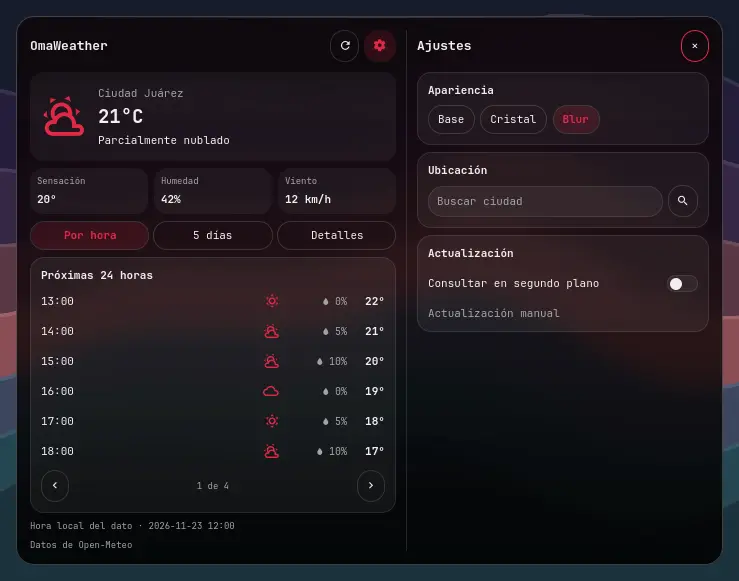
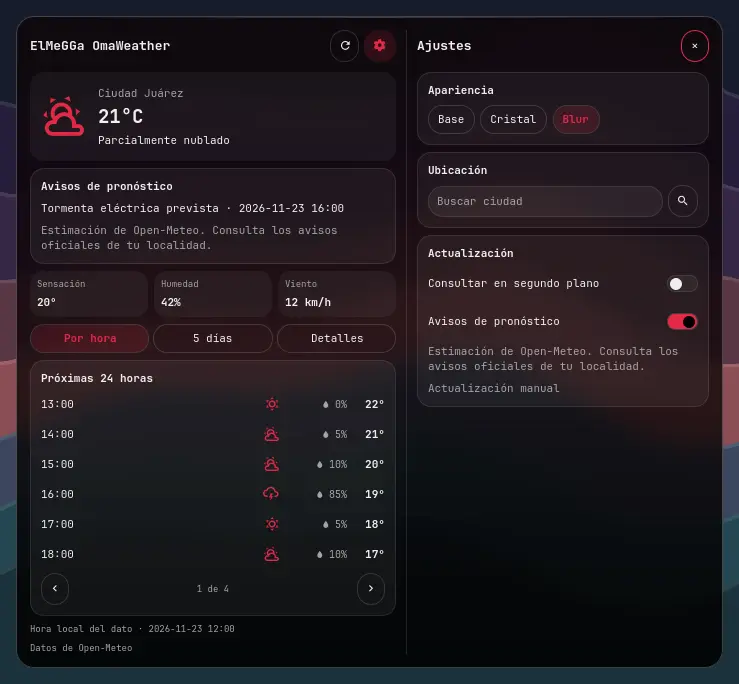
Release ElMeGGa OmaWeather 0.4.0

diff --git a/Weather.qml b/Weather.qml
@@ -18,6 +18,7 @@ Ui.BarWidget {
   readonly property var intervals: [5, 15, 30, 60]
   readonly property int minutes: intervals.includes(setting("minutes", 15)) ? setting("minutes", 15) : 15
   readonly property bool automatic: setting("automatic", true) === true
+  readonly property bool forecastAlerts: setting("forecastAlerts", false) === true
 
   readonly property color ink: Commons.Color.popups.text
   readonly property color background: Commons.Color.popups.background
@@ -35,6 +36,8 @@ Ui.BarWidget {
   property bool configuring: false
   property bool failed: false
   property bool saveFailed: false
+  property var announcedKinds: []
+  readonly property var forecastNotices: forecastAlerts && !failed ? Weather.forecastNotices(report) : []
 
   property string forecastView: "hourly"
   property int hourPage: 0
@@ -67,13 +70,27 @@ Ui.BarWidget {
   }
   function refresh() {
     if (fetch.running) return
-    failed = false
     requested = true
     requestedPlace = placeKey
     fetch.command = ["python3", "-B", decodeURIComponent(scriptFolder) + "weather.py",
       "forecast", String(place.lat), String(place.lon)]
     fetch.running = true
     if (automatic) ticker.restart()
+  }
+  function noticeText(notice) {
+    return strings.t(notice.kind).arg(notice.time.replace("T", " "))
+  }
+  function notifyForecast() {
+    if (!forecastAlerts || failed || !report || !bar) return
+    const widgets = typeof bar.moduleWidgets === "function" ? bar.moduleWidgets(moduleName) : []
+    if (widgets.length && widgets[0] !== root) return
+    const pending = forecastNotices.filter(notice => !announcedKinds.includes(notice.kind))
+    announcedKinds = forecastNotices.map(notice => notice.kind)
+    if (!pending.length) return
+    const body = [place.name, ...pending.map(noticeText), strings.t("forecastNoticeNote")].join("\n")
+    const escaped = body.replace(/&/g, "&amp;").replace(/</g, "&lt;").replace(/>/g, "&gt;")
+    Quickshell.execDetached(["notify-send", "--app-name=ElMeGGa OmaWeather", "--icon=weather-storm", "--",
+      strings.t("forecastNoticeTitle"), escaped])
   }
   function search(query) {
     if (lookup.running || query.trim().length < 2) return
@@ -95,11 +112,14 @@ Ui.BarWidget {
   function closeForPopoutSwitch() { close() }
 
   onPlaceKeyChanged: {
+    announcedKinds = []
     report = null
     hourPage = 0
     requested = false
     if ((opened || automatic) && bar) refresh()
   }
+  onForecastNoticesChanged: Qt.callLater(notifyForecast)
+  onForecastAlertsChanged: if (!forecastAlerts) announcedKinds = []
   onLastHourPageChanged: hourPage = Math.min(hourPage, lastHourPage)
   onAutomaticChanged: {
     if (automatic && bar) refresh()
@@ -126,6 +146,7 @@ Ui.BarWidget {
       if (code === 0) {
         try {
           root.report = JSON.parse(readings.text)
+          root.failed = false
           return
         } catch (error) {}
       }
@@ -238,7 +259,7 @@ Ui.BarWidget {
     id: button
     anchors.fill: parent
     bar: root.bar
-    tooltipText: strings.t("title")
+    tooltipText: root.forecastNotices.length ? strings.t("forecastNoticeTitle") : strings.t("title")
     hasVisualContent: true
     labelVisible: false
     onPressed: function(mouseButton) {
@@ -252,7 +273,7 @@ Ui.BarWidget {
         horizontalAlignment: Text.AlignHCenter
         anchors.verticalCenter: parent.verticalCenter
         text: Weather.condition(root.report?.code, root.report?.night)[1]
-        color: button.foreground
+        color: root.forecastNotices.length ? Commons.Color.urgent : button.foreground
         font.family: button.fontFamily
         font.pixelSize: Math.min(root.s(14), root.barSize - root.s(6))
       }
@@ -352,6 +373,28 @@ Ui.BarWidget {
                       : strings.t(Weather.condition(root.report?.code, root.report?.night)[0])
                   }
                 }
+              }
+            }
+            OmaGroup {
+              Layout.fillWidth: true
+              visible: root.forecastNotices.length > 0
+              title: strings.t("forecastNoticeTitle")
+              Repeater {
+                model: root.forecastNotices
+                delegate: Label {
+                  required property var modelData
+                  Layout.fillWidth: true
+                  wrapMode: Text.WordWrap
+                  elide: Text.ElideNone
+                  text: root.noticeText(modelData)
+                }
+              }
+              Label {
+                Layout.fillWidth: true
+                wrapMode: Text.WordWrap
+                elide: Text.ElideNone
+                color: root.softInk
+                text: strings.t("forecastNoticeNote")
               }
             }
             RowLayout {
@@ -612,6 +655,20 @@ Ui.BarWidget {
                 text: strings.t("automatic")
                 checked: root.automatic
                 onClicked: if (!root.save("automatic", checked)) checked = Qt.binding(() => root.automatic)
+              }
+              Toggle {
+                Layout.fillWidth: true
+                text: strings.t("enableForecastNotices")
+                checked: root.forecastAlerts
+                onClicked: if (!root.save("forecastAlerts", checked)) checked = Qt.binding(() => root.forecastAlerts)
+              }
+              Label {
+                visible: root.forecastAlerts
+                Layout.fillWidth: true
+                text: strings.t("forecastNoticeNote")
+                wrapMode: Text.WordWrap
+                elide: Text.ElideNone
+                color: root.softInk
               }
               Label { Layout.fillWidth: true; text: strings.t(root.automatic ? "interval" : "manual"); color: root.softInk }
               RowLayout {

diff --git a/Conditions.js b/Conditions.js
@@ -14,3 +14,18 @@ function validPlace(place) {
         && place.name.length <= 80 && Number.isFinite(place.lat) && Math.abs(place.lat) <= 90
         && Number.isFinite(place.lon) && Math.abs(place.lon) <= 180
 }
+
+function forecastNotices(report) {
+    if (!report || !Array.isArray(report.hours)) return []
+    const notices = []
+    for (const sample of [report, ...report.hours.slice(0, 24)]) {
+        if (typeof sample?.time !== "string" || !/^\d{4}-\d{2}-\d{2}T\d{2}:\d{2}$/.test(sample.time))
+            continue
+        const kind = sample.code === 96 || sample.code === 99 ? "forecastHail"
+            : sample.code === 95 || sample.code === 97 ? "forecastStorm"
+            : sample.code === 65 || sample.code === 82 ? "forecastHeavyRain" : ""
+        if (kind && !notices.some(notice => notice.kind === kind))
+            notices.push({ kind, time: sample.time })
+    }
+    return notices
+}

diff --git a/README.md b/README.md
@@ -1,10 +1,12 @@
-# OmaWeather
+# ElMeGGa OmaWeather
 
 Clima para la barra de Omarchy. Consulta las condiciones actuales, las próximas 24 horas, el pronóstico de cinco días y detalles como viento, humedad y radiación UV. Está disponible en español e inglés.
 
-![OmaWeather en Base, Cristal y Blur](preview.png)
+![ElMeGGa OmaWeather con su panel y funciones principales](preview.png)
 
-*Paneles renderizados con datos de ejemplo y la paleta Rubí OLED. El desenfoque del fondo está simulado en la captura.*
+*Las capturas usan datos de ejemplo y la paleta Rubí OLED. La comparativa simula el desenfoque del fondo.*
+
+[Comparar Base, Cristal y Blur](docs/appearance-finishes.webp) · [ElMeGGa OmaDesktop](https://github.com/megga-ernesto/ElMeGGa-OmaDesktop)
 
 ## Funciones
 
@@ -14,6 +16,7 @@ Clima para la barra de Omarchy. Consulta las condiciones actuales, las próximas
 - Detalles de sensación térmica, humedad, viento, ráfagas, presión, nubosidad, visibilidad, UV, precipitación, amanecer y atardecer.
 - Búsqueda de ciudades, actualización manual y consultas automáticas opcionales cada 5, 15, 30 o 60 minutos.
 - Interfaz en español e inglés, hora local del dato y última lectura disponible si falla una consulta.
+- Avisos opcionales de pronóstico para tormentas eléctricas, tormentas con granizo y lluvia intensa.
 
 ## Instalación y uso
 
@@ -24,6 +27,10 @@ omarchy plugin add https://github.com/megga-ernesto/omaweather.git --enable
 ```
 
 Abre el panel desde la barra y pulsa el engranaje. En **Ubicación** busca una ciudad y selecciona un resultado. En **Actualización** elige si deseas consultas en segundo plano y con qué frecuencia. El botón de actualizar del panel permite consultar al momento.
+
+Activa **Avisos de pronóstico** en **Ajustes → Actualización**. Los avisos aparecen en el panel y como notificación de escritorio si `notify-send` está disponible. Se basan en las condiciones actuales y las próximas 24 horas de Open-Meteo. Con la actualización en segundo plano activada, el pronóstico se revisa aunque el panel esté cerrado. Para alertas oficiales, consulta el servicio meteorológico de tu localidad.
+
+![Pronóstico de cinco días con aviso de tormenta de ejemplo](docs/forecast-five-days.webp)
 
 ## Apariencia
 
@@ -63,4 +70,4 @@ Para probarlo en Quattro, copia los archivos del plugin, incluida la carpeta `i1
 
 ## Créditos y licencia
 
-Pronósticos y búsqueda de ciudades por [Open-Meteo](https://open-meteo.com/). Los componentes compartidos `Oma*.qml`, `OmaColors.js` y `backdrop.py` conservan su [licencia MIT](docs/mit-shared-components.txt).
+Pronósticos y búsqueda de ciudades por [Open-Meteo](https://open-meteo.com/). El código se distribuye con [licencia MIT](LICENSE).
